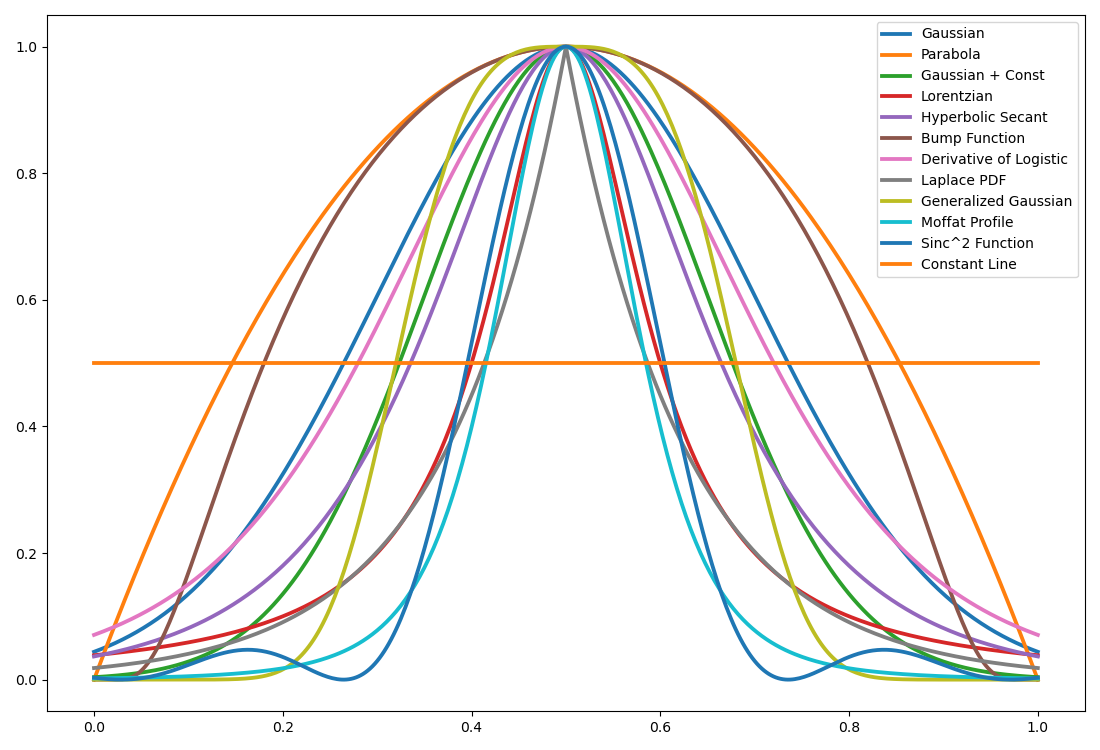
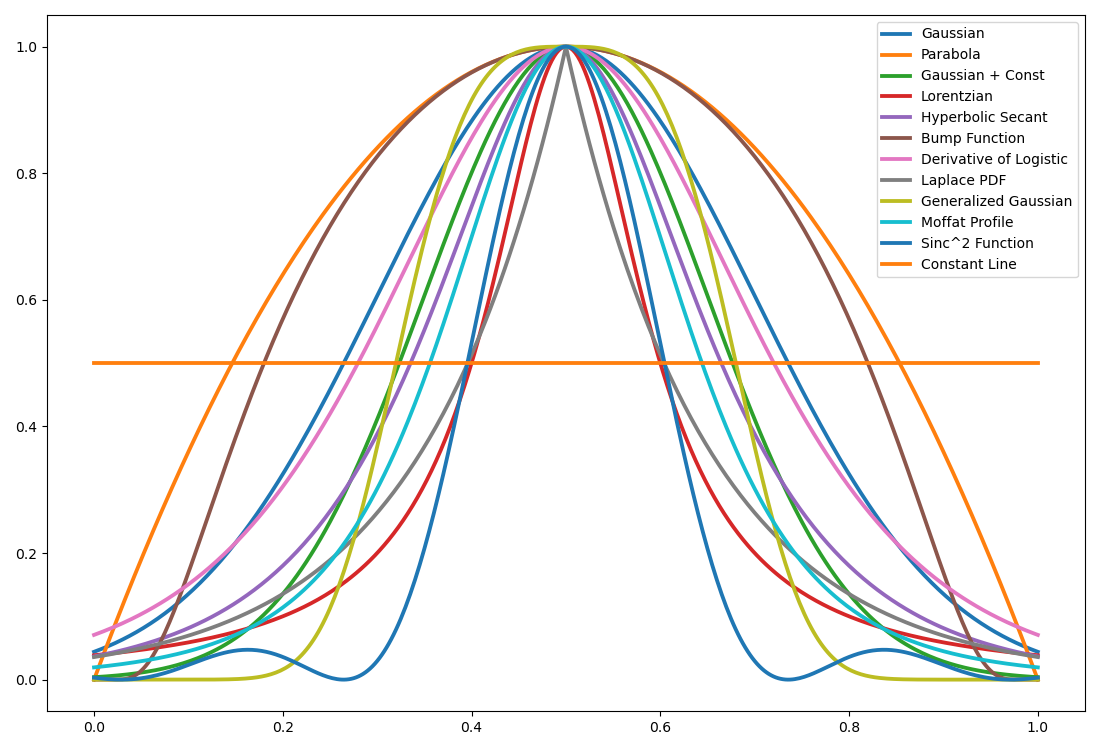
Finished fixing of peak / valley separation of initial fitting parameters for better fitting robustness

diff --git a/src/peakfitpy/utils/model_utils.py b/src/peakfitpy/utils/model_utils.py
@@ -37,16 +37,16 @@ default_f_params = {"gaussian_f": [1.0, 0.5, 0.2], "parabola_f": [-4.0, 4.0, 0.0
                     "line_f": [0.0, 0.5], "quartic_polynomial": [-5.0, 12.472, -13.828, 6.356, 0.0], "constant_f": [0.5],
                     "gaussian_leveled_f": {"peak": [1.0, 0.5, 0.15, 0.0], "valley": [-1.0, 0.5, 0.15, 1.0]},
                     "lorentzian_f": {"peak": [0.1, 0.5, pi*0.1, 0.0], "valley": [0.1, 0.5, -pi*0.1, 0.0]}, 
-                    "sech_f": [2.0, 0.125, 0.5, 0.0],
-                    "bump_f": [0.5, e, 0.5, 0.0], 
-                    "logistic_derivative_f": [4.0, 0.125, 0.5, 0.0], 
-                    "rayleigh_pdf_f": [0.25, 0.41, 0.0, 0.0],
-                    "laplace_pdf_f": [0.5, 0.125, 1.0, 0.0], 
-                    "emg_f": [0.37, 0.35, 0.10, 0.15, 0.0],
-                    "rayleigh_pdf_mirrored_f": [0.25, 0.41, 1.0, 0.0], 
+                    "sech_f": {"peak": [2.0, 0.125, 0.5, 0.0], "valley": [-2.0, 0.125, 0.5, 1.0]},
+                    "bump_f": {"peak": [0.5, e, 0.5, 0.0], "valley": [0.5, -e, 0.5, 1.0]}, 
+                    "logistic_derivative_f": {"peak": [4.0, 0.125, 0.5, 0.0], "valley": [-4.0, 0.125, 0.5, 1.0]}, 
+                    "rayleigh_pdf_f": {"peak": [0.25, 0.41, 0.0, 0.0], "valley": [0.25, -0.41, 0.0, 1.0]},
+                    "laplace_pdf_f": {"peak": [0.5, 0.15, 1.0, 0.0], "valley": [0.5, 0.15, -1.0, 1.0]}, 
+                    "emg_f": {"peak": [0.37, 0.35, 0.10, 0.15, 0.0], "valley": [-0.37, 0.35, 0.10, 0.15, 1.0]},
+                    "rayleigh_pdf_mirrored_f": {"peak": [0.25, 0.41, 1.0, 0.0], "valley": [0.25, -0.41, 1.0, 1.0]}, 
                     "generalized_gaussian_f": {"peak": [0.2, 3.5, 0.5, 1.0, 0.0], "valley": [0.2, 3.5, 0.5, -1.0, 1.0]},
-                    "moffat_f": [1.0, 0.5, 0.15, 2.5, 0.0], 
-                    "sinc_sq_f": [1.0, 0.5, 0.075, 0.0], 
+                    "moffat_f": {"peak": [1.0, 0.5, 0.255, 2.5, 0.0], "valley": [-1.0, 0.5, 0.255, 2.5, 1.0]}, 
+                    "sinc_sq_f": {"peak": [1.0, 0.5, 0.075, 0.0], "valley": [-1.0, 0.5, 0.075, 1.0]}, 
                     }
 
 full_f_names = {"gaussian_f": "Gaussian", "parabola_f": "Parabola", "gaussian_leveled_f": "Gaussian + Const",
@@ -410,21 +410,30 @@ w_sinc_sq = fwhm_max/get_fwhm("sinc_sq_f", 1.0)
 w_emg_g, w_emg_tau = w_max_gaussian, 1.0/log(2.0)  # recommended estimation for Gaussian and exponential decay parts
 
 params_boundaries = {"gaussian_f": ([tol, x_min, tol], [np.inf, x_max, w_max_gaussian]),
-                     "gaussian_leveled_f" : {"peak": ([tol, x_min, tol, d_min], [np.inf, x_max, w_max_gaussian, d_max]),
-                                             "valley": ([-np.inf, x_min, tol, d_min], [tol, x_max, w_max_gaussian, d_max])},
-                     "lorentzian_f": {"peak": ([tol, x_min, tol, d_min], [w_max_lorentzian, x_max, np.inf, d_max]) ,
+                     "gaussian_leveled_f": {"peak": ([tol, x_min, tol, d_min], [np.inf, x_max, w_max_gaussian, d_max]),
+                                            "valley": ([-np.inf, x_min, tol, d_min], [tol, x_max, w_max_gaussian, d_max])},
+                     "lorentzian_f": {"peak": ([tol, x_min, tol, d_min], [w_max_lorentzian, x_max, np.inf, d_max]),
                                       "valley": ([tol, x_min, -np.inf, d_min], [w_max_lorentzian, x_max, tol, d_max])},
-                     "sech_f": ([-np.inf, tol, x_min, d_min], [np.inf, w_max_sech, x_max, d_max]),
-                     "bump_f": ([tol, -np.inf, x_min, d_min], [w_max_bump, np.inf, x_max, d_max]),
-                     "logistic_derivative_f": ([-np.inf, tol, x_min, d_min], [np.inf, w_max_logistic, x_max, d_max]),
-                     "rayleigh_pdf_f": ([tol, -np.inf, x_min, d_min], [w_max_rayleigh, np.inf, x_max, d_max]),
-                     "rayleigh_pdf_mirrored_f": ([tol, -np.inf, x_min, d_min], [w_max_rayleigh, np.inf, x_max, d_max]),
-                     "laplace_pdf_f": ([x_min, tol, -np.inf, d_min], [x_max, w_max_laplace, np.inf, d_max]),
+                     "sech_f": {"peak": ([tol, tol, x_min, d_min], [np.inf, w_max_sech, x_max, d_max]),
+                                "valley": ([-np.inf, tol, x_min, d_min], [tol, w_max_sech, x_max, d_max])},
+                     "bump_f": {"peak": ([tol, tol, x_min, d_min], [w_max_bump, np.inf, x_max, d_max]),
+                                "valley": ([tol, -np.inf, x_min, d_min], [w_max_bump, tol, x_max, d_max])},
+                     "logistic_derivative_f": {"peak": ([tol, tol, x_min, d_min], [np.inf, w_max_logistic, x_max, d_max]),
+                                               "valley": ([-np.inf, tol, x_min, d_min], [tol, w_max_logistic, x_max, d_max])},
+                     "rayleigh_pdf_f": {"peak": ([tol, tol, x_min, d_min], [w_max_rayleigh, np.inf, x_max, d_max]),
+                                        "valley": ([tol, -np.inf, x_min, d_min], [w_max_rayleigh, tol, x_max, d_max])},
+                     "rayleigh_pdf_mirrored_f": {"peak": ([tol, tol, x_min, d_min], [w_max_rayleigh, np.inf, x_max, d_max]),
+                                                 "valley": ([tol, -np.inf, x_min, d_min], [w_max_rayleigh, tol, x_max, d_max])},
+                     "laplace_pdf_f": {"peak": ([x_min, tol, tol, d_min], [x_max, w_max_laplace, np.inf, d_max]),
+                                       "valley": ([x_min, tol, -np.inf, d_min], [x_max, w_max_laplace, tol, d_max])},
                      "generalized_gaussian_f": {"peak": ([tol, 1.0, x_min, tol, d_min], [w_max_gaussian_gen, 10.0, x_max, np.inf, d_max]),
                                                 "valley": ([tol, 1.0, x_min, -np.inf, d_min], [w_max_gaussian_gen, 10.0, x_max, tol, d_max])},
-                     "moffat_f": ([-np.inf, x_min, tol, 0.5, d_min], [np.inf, x_max, w_max_moffat, 10.0, d_max]),
-                     "sinc_sq_f": ([-np.inf, 0.0, tol, d_min], [np.inf, 1.0, w_sinc_sq, d_max]),
-                     "emg_f": ([-np.inf, x_min, tol, tol, d_min], [np.inf, x_max, w_emg_g, w_emg_tau, d_max]),
+                     "moffat_f": {"peak": ([tol, x_min, tol, 0.5, d_min], [np.inf, x_max, w_max_moffat, 10.0, d_max]),
+                                  "valley": ([-np.inf, x_min, tol, 0.5, d_min], [tol, x_max, w_max_moffat, 10.0, d_max])},
+                     "sinc_sq_f": {"peak": ([tol, 0.0, tol, d_min], [np.inf, 1.0, w_sinc_sq, d_max]),
+                                   "valley": ([-np.inf, 0.0, tol, d_min], [tol, 1.0, w_sinc_sq, d_max])},
+                     "emg_f": {"peak": ([tol, x_min, tol, tol, d_min], [np.inf, x_max, w_emg_g, w_emg_tau, d_max]) ,
+                               "valley": ([-np.inf, x_min, tol, tol, d_min], [tol, x_max, w_emg_g, w_emg_tau, d_max])},
                      "constant_f": ([0.0], [1.0]),
                      }
 

diff --git a/tests/test_fitting.py b/tests/test_fitting.py
@@ -19,12 +19,16 @@ from peakfitpy.fit_models import (
     gaussian_f,
     gaussian_leveled_f,
     generalized_gaussian_f,
+    laplace_pdf_f,
     line_f,
+    logistic_derivative_f,
     lorentzian_f,
     moffat_f,
     parabola_f,
     quartic_polynomial,
     rayleigh_pdf_f,
+    rayleigh_pdf_mirrored_f,
+    sech_f,
     sinc_sq_f,
 )
 from peakfitpy.utils.model_utils import default_f_params
@@ -105,9 +109,6 @@ def test_basic_fitting():
     x = np.linspace(0.0, 1.0); params = default_f_params[gaussian_f.__name__]
     y = 5.0*gaussian_f(x, *params); y = PeakFit1D.add_awgn(y, noise_fraction=1.0, seed=20)
     pf = PeakFit1D(x, y); pf.find_best_fit(filter_spikes=True, selection_criterion="IC"); is_peak, xp, yp = pf.get_peak_values()
-    assert is_peak is None, "No peak should be fitted"
-    y = PeakFit1D.add_awgn(y, noise_fraction=1.0, seed=32)
-    pf = PeakFit1D(x, y); pf.find_best_fit(filter_spikes=True, selection_criterion="IC"); is_peak, xp, yp = pf.get_peak_values()
     if is_peak is not None:
         assert 0.0 < xp < 1.0 and 0.85*y.min() <= yp <= 1.15*y.max(), ("\nFitting of noisy data results in peak: {xp, yp} - what not"
                                                                        + f" in [0.0, 1.0] X and {0.85*y.min(), 1.15*y.max()} Y ranges")
@@ -143,9 +144,10 @@ def test_fitting_features():
     assert fit_res_np_l[0].function.__name__ == "line_f", "Line should be fitted to the data with single outlier"
     # Make the peak not needle like, allow 4 points nearby => not "needle-like" peak
     y[y.shape[0]//2 - 8] = 8.7; y[y.shape[0]//2 - 5] = 13.0; y[y.shape[0]//2 - 4] = 9.2; y[y.shape[0]//2 - 7] = 12.4
-    pf = PeakFit1D(x, y); fit_res_np_lp = pf.find_best_fit(filter_spikes=True, include_funcs=(lorentzian_f, gaussian_f, moffat_f),
+    pf = PeakFit1D(x, y); fit_res_np_lp = pf.find_best_fit(filter_spikes=True, include_funcs=(lorentzian_f, gaussian_f, moffat_f,
+                                                                                              gaussian_leveled_f),
                                                            selection_criterion="IC")
-    assert fit_res_np_lp[0].function.__name__ == "gaussian_f", "5 points formed a peak that should be fitted as Gaussian function"
+    assert fit_res_np_lp[0].function.__name__ == "gaussian_leveled_f", "5 points should be fitted as Gaussian + Const function"
 
 
 # regex magic used for filtering out only single proper warning
@@ -206,3 +208,42 @@ def test_special_conditions():
                                                    include_funcs=(quartic_polynomial, cubic_polynomial, parabola_f))
     condition = bf.function.__name__ == quartic_polynomial.__name__ and p.is_defined and p.is_peak and 0.65 <= p.x <= 0.69
     assert condition, "Specific function -(x-0.67)**4 not properly fitted, check conditions in the manual test (run_as_main.py)"
+
+
+def test_fitting_scenarios():
+    """
+    Test found scenarios where fitting should be still meaningful.
+
+    Returns
+    -------
+    None
+    
+    """
+    n_points = 101; x = np.linspace(start=0.0, stop=1.0, num=n_points)*1E2 + 5.0
+    k, b, c, d = default_f_params[gaussian_leveled_f.__name__]["peak"]
+    # Test shifted valley fitting
+    y = gaussian_leveled_f(x, k-2.0, b+22.5, c*50.0, d+16.0)
+    pf = PeakFit1D(x, y)
+    bf, p = pf.find_best_fit(filter_line_fit=True, filter_spikes=True,
+                             include_funcs=(lorentzian_f, sinc_sq_f, generalized_gaussian_f, emg_f, sech_f,
+                                            bump_f, logistic_derivative_f, rayleigh_pdf_f, rayleigh_pdf_mirrored_f,
+                                            laplace_pdf_f, moffat_f, sinc_sq_f))
+    max_rmse_all = max(fit.rmse for fit in pf.all_fits); fits = pf.all_fits.copy()
+    fits.sort(key= lambda x: x.rmse, reverse=True); max_rmse_f = fits[0]
+    assert np.isclose(bf.rmse, 0.0), "Norm. RMSE of fit > 0.0 but expected to be close to 0.0 (perfect fit)"
+    assert p is not None and not p.is_peak, "Valley should be defined"
+    assert max_rmse_all < 0.055, "Max norm. RMSE exceeds expected value of 0.055"
+    assert max_rmse_f.function.__name__ == "laplace_pdf_f", "Expected Laplace Function with worst RMSE"
+    # Test shifted peak fitting
+    y = gaussian_leveled_f(x, k+2.0, b+23.0, c*50.0, d+16.0)
+    pf = PeakFit1D(x, y)
+    bf, p = pf.find_best_fit(filter_line_fit=True, filter_spikes=True,
+                             include_funcs=(lorentzian_f, sinc_sq_f, generalized_gaussian_f, emg_f, sech_f,
+                                            bump_f, logistic_derivative_f, rayleigh_pdf_f, rayleigh_pdf_mirrored_f,
+                                            laplace_pdf_f, moffat_f, sinc_sq_f))
+    max_rmse_all = max(fit.rmse for fit in pf.all_fits); fits = pf.all_fits.copy()
+    fits.sort(key= lambda x: x.rmse, reverse=True); max_rmse_f = fits[0]
+    assert np.isclose(bf.rmse, 0.0), "Norm. RMSE of fit > 0.0 but expected to be close to 0.0 (perfect fit)"
+    assert p is not None and p.is_peak, "Peak should be defined"
+    assert max_rmse_all < 0.055, "Max norm. RMSE exceeds expected value of 0.055"
+    assert max_rmse_f.function.__name__ == "laplace_pdf_f", "Expected Laplace Function with worst RMSE"

diff --git a/tests/run_as_main.py b/tests/run_as_main.py
@@ -16,12 +16,16 @@ from peakfitpy.fit_models import (
     gaussian_f,
     gaussian_leveled_f,
     generalized_gaussian_f,
+    laplace_pdf_f,
     line_f,
+    logistic_derivative_f,
     lorentzian_f,
     moffat_f,
     parabola_f,
     quartic_polynomial,
     rayleigh_pdf_f,
+    rayleigh_pdf_mirrored_f,
+    sech_f,
     sinc_sq_f,
 )
 from peakfitpy.utils.model_utils import (
@@ -148,9 +152,10 @@ if __name__ == "__main__":
         assert fit_res_np_l[0].function.__name__ == "line_f"
         # Make the peak not needle like, allow 4 points nearby => not "needle-like" peak
         y[y.shape[0]//2 - 8] = 8.7; y[y.shape[0]//2 - 5] = 13.0; y[y.shape[0]//2 - 4] = 9.2; y[y.shape[0]//2 - 7] = 12.4
-        pf = PeakFit1D(x, y); fit_res_np_lp = pf.find_best_fit(filter_spikes=True, include_funcs=(lorentzian_f, gaussian_f, moffat_f),
-                                                               selection_criterion="IC")
-        assert fit_res_np_lp[0].function.__name__ == "gaussian_f"
+        pf = PeakFit1D(x, y); fit_res_np_lp = pf.find_best_fit(filter_spikes=True, include_funcs=(lorentzian_f, gaussian_f, moffat_f,
+                                                                                                  gaussian_leveled_f),
+                                                               plot_best_fit=True, selection_criterion="IC")
+        assert fit_res_np_lp[0].function.__name__ == "gaussian_leveled_f"
 
     # Check fallback fitting
     if test_fallback_fit:
@@ -186,11 +191,36 @@ if __name__ == "__main__":
     if test_results_values:
         n_points = 101; x = np.linspace(start=0.0, stop=1.0, num=n_points)*1E2 + 5.0
         k, b, c, d = default_f_params[gaussian_leveled_f.__name__]["peak"]
+        # Test shifted valley fitting
         y = gaussian_leveled_f(x, k-2.0, b+22.5, c*50.0, d+16.0)
         pf = PeakFit1D(x, y)
-        # Tested: gaussian_leveled_f: RMSE = 0.0, lorentzian_f: RMSE = 0.040933, generalized_gaussian_f: RMSE = 0.0
+        # Tested: gaussian_leveled_f: RMSE = 0.0, lorentzian_f: RMSE = 0.040933, generalized_gaussian_f: RMSE = 0.0, 
+        # emg_f: RMSE = 0.00023, sech_f: RMSE = 0.023, bump_f: RMSE = 0.046016, logistic_derivative_f: RMSE = 0.01355,
+        # rayleigh_pdf_f: RMSE = 0.047928, rayleigh_pdf_mirrored_f: RMSE = 0.046638, laplace_pdf_f: RMSE = 0.054485, 
+        # moffat_f: RMSE = 0.005879, sinc_sq_f: RMSE = 0.017332
         bf, p = pf.find_best_fit(verbose=True, filter_line_fit=True, filter_spikes=True, plot_best_fit=True,
-                                 include_funcs=(generalized_gaussian_f, ))
+                                 include_funcs=(lorentzian_f, sinc_sq_f, generalized_gaussian_f, emg_f, sech_f,
+                                                bump_f, logistic_derivative_f, rayleigh_pdf_f, rayleigh_pdf_mirrored_f,
+                                                laplace_pdf_f, moffat_f, sinc_sq_f))
+        max_rmse_all = max(fit.rmse for fit in pf.all_fits); fits = pf.all_fits.copy()
+        fits.sort(key= lambda x: x.rmse, reverse=True); max_rmse_f = fits[0]
+        assert np.isclose(bf.rmse, 0.0), "Norm. RMSE of fit > 0.0 but expected to be close to 0.0 (perfect fit)"
+        assert p is not None and not p.is_peak, "Valley should be defined"
+        assert max_rmse_all < 0.055, "Max norm. RMSE exceeds expected value of 0.055"
+        assert max_rmse_f.function.__name__ == "laplace_pdf_f", "Expected Laplace Function with worst RMSE"
+        # Test shifted peak fitting
+        y = gaussian_leveled_f(x, k+2.0, b+23.0, c*50.0, d+16.0)
+        pf = PeakFit1D(x, y)
+        bf, p = pf.find_best_fit(verbose=True, filter_line_fit=True, filter_spikes=True, plot_best_fit=True,
+                                 include_funcs=(lorentzian_f, sinc_sq_f, generalized_gaussian_f, emg_f, sech_f,
+                                                bump_f, logistic_derivative_f, rayleigh_pdf_f, rayleigh_pdf_mirrored_f,
+                                                laplace_pdf_f, moffat_f, sinc_sq_f))
+        max_rmse_all = max(fit.rmse for fit in pf.all_fits); fits = pf.all_fits.copy()
+        fits.sort(key= lambda x: x.rmse, reverse=True); max_rmse_f = fits[0]
+        assert np.isclose(bf.rmse, 0.0), "Norm. RMSE of fit > 0.0 but expected to be close to 0.0 (perfect fit)"
+        assert p is not None and p.is_peak, "Peak should be defined"
+        assert max_rmse_all < 0.055, "Max norm. RMSE exceeds expected value of 0.055"
+        assert max_rmse_f.function.__name__ == "laplace_pdf_f", "Expected Laplace Function with worst RMSE"
         
     # Check the recovery rate of fittings
     if test_noise_recover:

diff --git a/src/peakfitpy/peakfit.py b/src/peakfitpy/peakfit.py
@@ -171,7 +171,7 @@ class PeakFit1D():
         else:
             raise ValueError("\nProvided Y values are identical (constant)")
         # Initialize class instance variables
-        self.function_params = {name: default_f_params[name].copy() for name in self.function_names}  # fail if no default param-s for a f()
+        self.function_params = {name: deepcopy(default_f_params[name]) for name in self.function_names}  # fail if no default param-s for a f()
         self.best_fit = None; self.peak = None; self.all_fits = []; self.best_fit_criterion = ""; self.selected_funcs = ()
         # Define available best fit criteria - exclude or include "IC" based on sample size
         generator = (len(params) for params in default_f_params.values())  # Generator expression
@@ -256,7 +256,7 @@ class PeakFit1D():
             # Fitting loop
             for function in self.selected_funcs:
                 f_name = function.__name__  # string form of the function name
-                params = self.function_params[f_name].copy()  # used default starting fitting parameters (centered peaks)
+                params = deepcopy(self.function_params[f_name])  # used default starting fitting parameters (centered peaks)
                 aicc = None; mae = np.nan; rmse = np.nan; pk = "peak"; vk = "valley"; pcov = None; perr = None  # default values
                 if isinstance(params, list):  # either all default parameters stored as a list, or as dict with 2 variants
                     params_len = len(params)
@@ -329,11 +329,10 @@ class PeakFit1D():
                                 y_f_p = function(self.x_norm, *fitted_f_params_p); y_f_v = function(self.x_norm, *fitted_f_params_v)
                                 diff_y_p = self.y_norm - y_f_p; diff_y_v = self.y_norm - y_f_v
                                 rmse_p = np.sqrt(np.mean((diff_y_p)**2)); rmse_v = np.sqrt(np.mean((diff_y_v)**2))
-                                print("RMSE peak:", round(rmse_p, 6), "RMSE valley:", round(rmse_v, 6), flush=True)
                                 if rmse_p > rmse_v:
                                     fitted_f_params = fitted_f_params_v; pcov = pcov_v; rmse = rmse_v; diff_y = diff_y_v
                                 else:
-                                    fitted_f_params = fitted_f_params_p; pcov = pcov_p; rmse = rmse_v; diff_y = diff_y_p
+                                    fitted_f_params = fitted_f_params_p; pcov = pcov_p; rmse = rmse_p; diff_y = diff_y_p
                                 mae = np.mean(np.abs(diff_y))
                         # Calculate or reassign some metrics based on the fitted parameters
                         if pcov is not None:
@@ -838,10 +837,10 @@ class PeakFit1D():
         """
         if self.best_fit_criterion == "RMSE":
             print("Best fit function:", full_f_names.get(self.best_fit.function.__name__, ""),
-                  f"| based on {self.best_fit_criterion}:", round(self.best_fit.rmse, 6))
+                  f"| based on norm. {self.best_fit_criterion}:", round(self.best_fit.rmse, 6))
         elif self.best_fit_criterion == "MAE":
             print("Best fit function:", full_f_names.get(self.best_fit.function.__name__, ""),
-                  f"| based on {self.best_fit_criterion}:", round(self.best_fit.mae, 6))
+                  f"| based on norm. {self.best_fit_criterion}:", round(self.best_fit.mae, 6))
         elif self.best_fit_criterion == "IC":
             print("Best fit function:", full_f_names.get(self.best_fit.function.__name__, ""),
                   f"| based on {self.best_fit_criterion}:", round(self.best_fit.aicc, 3))

diff --git a/tests/test_func_defs.py b/tests/test_func_defs.py
@@ -9,7 +9,7 @@ Test that the function definitions are consistently imported in PeakFit1D class.
 # %% Global imports
 from peakfitpy import PeakFit1D
 from peakfitpy.fit_models import constant_f
-from peakfitpy.utils.model_utils import default_f_params, full_f_names
+from peakfitpy.utils.model_utils import default_f_params, full_f_names, params_boundaries
 
 
 # %% Test function
@@ -25,9 +25,18 @@ def test_funcs_import():
     assert len(PeakFit1D.functions) == len(PeakFit1D.function_names), "Not all names of functions exported"
     pf = PeakFit1D(x=[i for i in range(7)], y=[2*i - 0.75 for i in range(7)])
     for f in PeakFit1D.functions:
-        assert f.__name__ in pf.function_params, "Not all functions have default parameters for fitting defined"
-        assert f.__name__ in default_f_params, "Not all functions have default parameters for fitting defined"
-        assert f.__name__ in full_f_names, "Not all functions have full name defined"
+        f_n = f.__name__
+        assert f_n in pf.function_params, "Not all functions have default parameters for fitting defined in the instance variable"
+        assert f_n in default_f_params, "Not all functions have default parameters for fitting defined in the property dictionary"
+        assert f_n in full_f_names, "Not all functions have full name defined"
+        if f_n in params_boundaries:
+            tp_limits = type(params_boundaries[f_n]); tp_params = type(default_f_params[f_n])
+            if tp_params is dict:
+                assert tp_limits is tp_params, f"Function '{f_n}' defines different types for param-s {tp_params} and limits {tp_limits}"
+            elif tp_params is list:
+                assert tp_limits is tuple, f"Function '{f_n}' defines types for limits {tp_limits} - instead of 'tuple'"
+            else:
+                raise AssertionError(f"Function '{f_n}' defines types for param-s {tp_params} - instead of 'list' or 'dict'")
     
     assert all(f in PeakFit1D.functions for f in PeakFit1D.polynomials), "Not all polynomials are in the list of functions"
     assert constant_f not in PeakFit1D.polynomials, "Constant line is included in polynomials"
